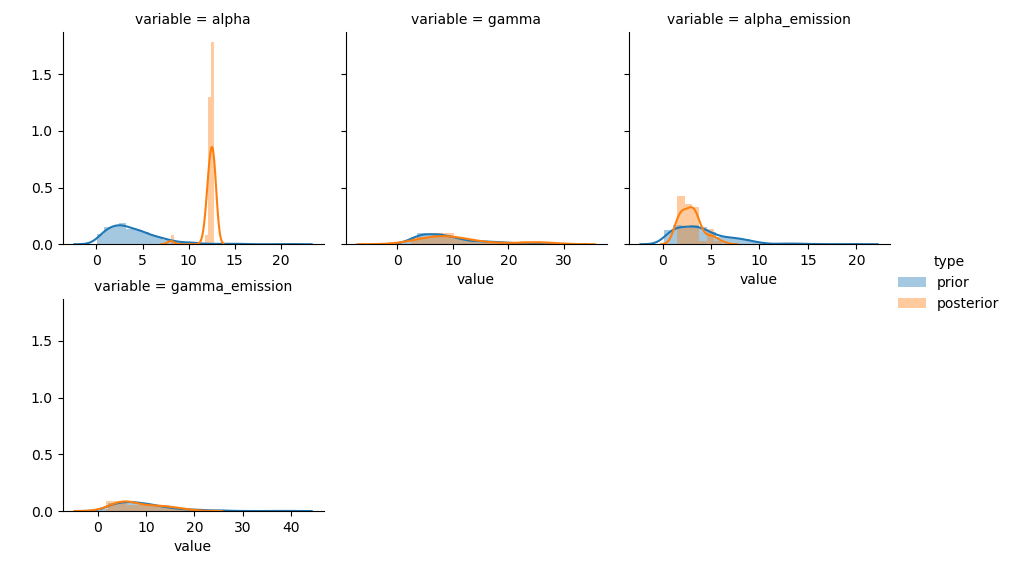
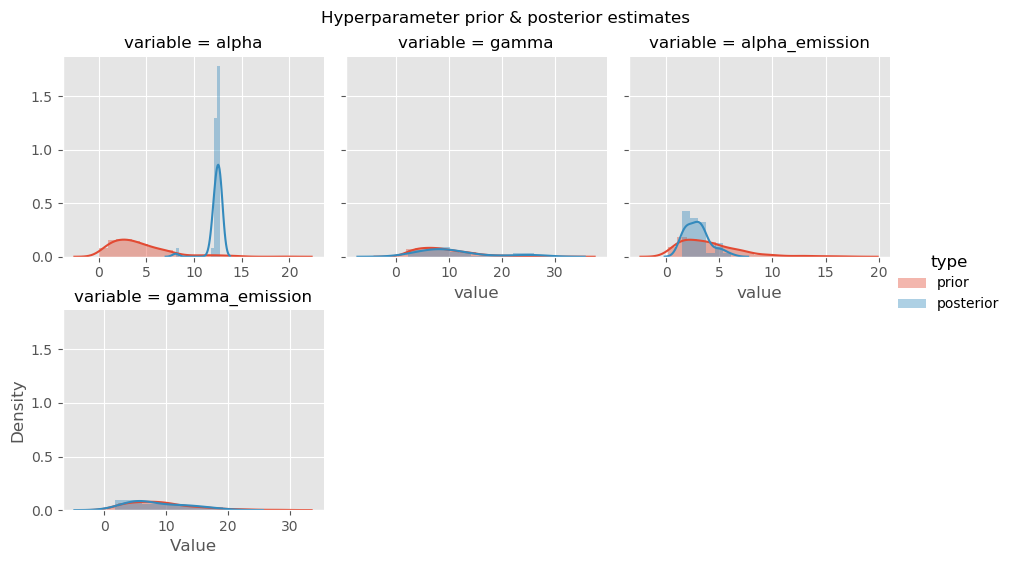
Add user friendly pictures to README

diff --git a/README.md b/README.md
@@ -78,11 +78,20 @@ approach.
 import pandas as pd
 import seaborn as sns
 import matplotlib.pyplot as plt
+plt.style.use('ggplot')
 
 # plot the number of states as a histogram
 sns.countplot(results['state_count'])
+plt.title('Number of latent states')
+plt.xlabel('Number of latent states')
+plt.ylabel('Number of iterations')
 plt.show()
+```
 
+
+![State counts](https://raw.githubusercontent.com/jamesross2/Bayesian-HMM/master/outputs/plot_state_count.png)
+
+```python
 # plot the starting probabilities of the sampled MAP estimate
 map_index = results['chain_loglikelihood'].index(min(results['chain_loglikelihood']))
 parameters_map = results['parameters'][map_index]
@@ -90,8 +99,15 @@ sns.barplot(
     x=list(parameters_map['p_initial'].keys()), 
     y=list(parameters_map['p_initial'].values())
 )
+plt.title('Starting state probabilities')
+plt.xlabel('Latent state')
+plt.ylabel('MAP estimate for initial probability')
 plt.show()
+```
 
+![MAP initial probabilities](https://raw.githubusercontent.com/jamesross2/Bayesian-HMM/master/outputs/plot_p_initial.png)
+
+```python
 # convert list of hyperparameters into a DataFrame
 hyperparam_posterior_df = (
     pd.DataFrame(results['hyperparameters'])
@@ -122,8 +138,15 @@ g = sns.FacetGrid(
 )
 g.map(sns.distplot, 'value')
 g.add_legend()
+g.fig.suptitle('Hyperparameter prior & posterior estimates')
+plt.subplots_adjust(top=0.9)
+plt.xlabel('Value')
+plt.ylabel('Density')
 plt.show()
-```  
+```
+
+
+![Hyperparameter posteriors](https://raw.githubusercontent.com/jamesross2/Bayesian-HMM/master/outputs/plot_hyperparameters.png)
 
 The `bayesian_hmm` package can handle more advanced usage, including:
   * Multiple emission sequences,
